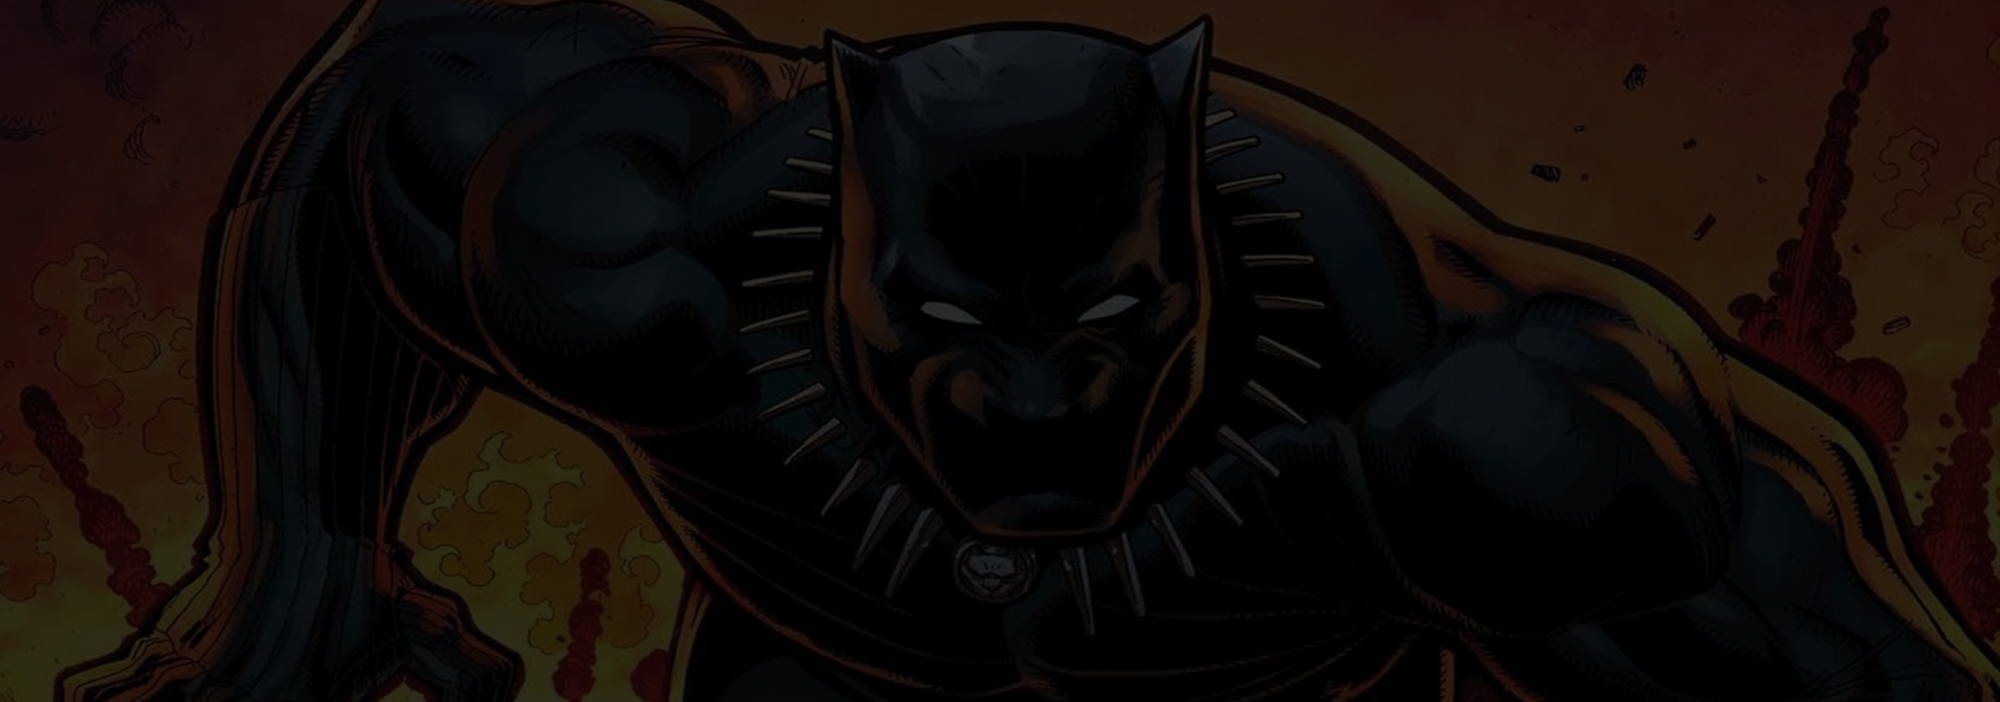
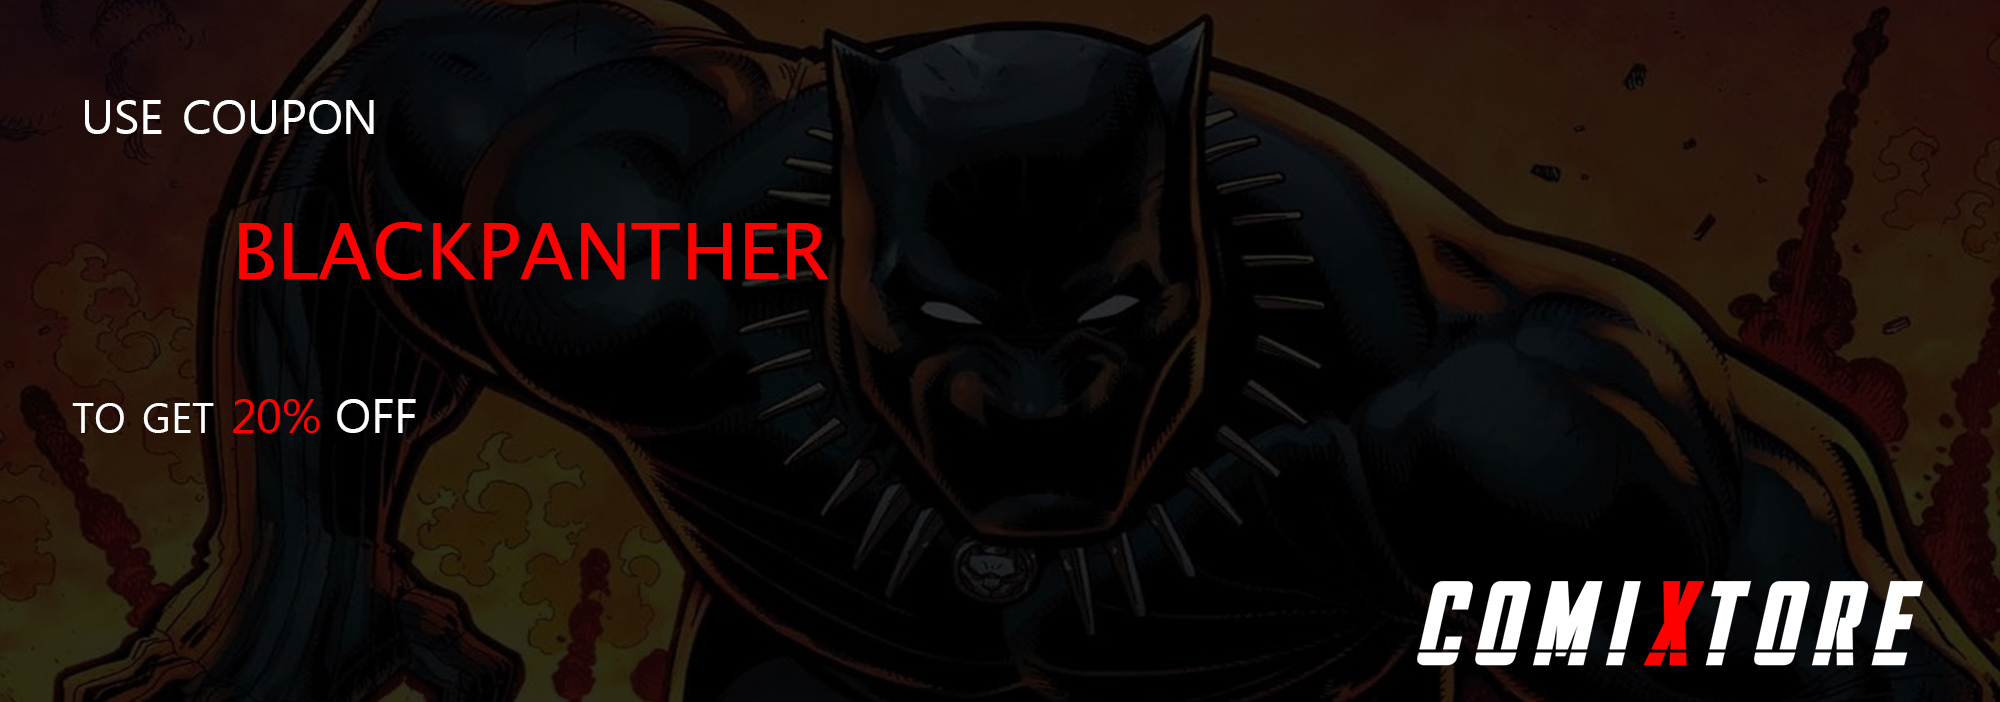
add coupons

diff --git a/src/views/Details/index.js b/src/views/Details/index.js
@@ -1,6 +1,6 @@
 import React, { useState, useEffect } from "react";
 import { useLocation } from "react-router-dom";
-import { useHistory } from 'react-router-dom';
+import { useHistory } from "react-router-dom";
 import Navbar from "../../components/Navbar";
 import Header from "../../components/Header";
 import {
@@ -35,7 +35,7 @@ function Details() {
 
   useEffect(() => {
     getComic();
-    if(history.location.state.price){
+    if (history.location.state.price) {
       setPrice(history.location.state.price);
     }
   }, []);
@@ -55,7 +55,7 @@ function Details() {
         ])
       );
     } else {
-      setProductQuantity(productQuantity => productQuantity + 1)
+      setProductQuantity((productQuantity) => productQuantity + 1);
       sessionStorage.setItem(
         "products",
         JSON.stringify([...products, { id, title, quantity: 1, price }])
@@ -72,17 +72,25 @@ function Details() {
 
   return (
     <main role="main">
-      <Header productQuantity={productQuantity}/>
+      <Header productQuantity={productQuantity} />
       <Navbar />
       <div class="jumbotron">
         <div class="container">
           <h1 class="display-3">{comicItem.title}</h1>
-          <p>{comicItem.description}</p>
+          {!comicItem.description ? (
+            <p>Produto sem Descrição</p>
+          ) : (
+            <p>{comicItem.description}</p>
+          )}
           <p>
-            <button onClick={() => addProduct()} className="btn btn-success btn-lg">
+            <button
+              onClick={() => addProduct()}
+              className="btn btn-success btn-lg"
+            >
               Buy &raquo;
             </button>
           </p>
+          <span></span>
           <Card className="product-container">
             <CardImg
               top
@@ -95,53 +103,6 @@ function Details() {
               alt="Imagem produto"
             />
           </Card>
-        </div>
-      </div>
-
-      <div class="container">
-        <div class="row">
-          <div class="col-md-4">
-            <h2>Heading</h2>
-            <p>
-              Donec id elit non mi porta gravida at eget metus. Fusce dapibus,
-              tellus ac cursus commodo, tortor mauris condimentum nibh, ut
-              fermentum massa justo sit amet risus. Etiam porta sem malesuada
-              magna mollis euismod. Donec sed odio dui.{" "}
-            </p>
-            <p>
-              <a class="btn btn-secondary" href="#" role="button">
-                View details &raquo;
-              </a>
-            </p>
-          </div>
-          <div class="col-md-4">
-            <h2>Heading</h2>
-            <p>
-              Donec id elit non mi porta gravida at eget metus. Fusce dapibus,
-              tellus ac cursus commodo, tortor mauris condimentum nibh, ut
-              fermentum massa justo sit amet risus. Etiam porta sem malesuada
-              magna mollis euismod. Donec sed odio dui.{" "}
-            </p>
-            <p>
-              <a class="btn btn-secondary" href="#" role="button">
-                View details &raquo;
-              </a>
-            </p>
-          </div>
-          <div class="col-md-4">
-            <h2>Heading</h2>
-            <p>
-              Donec sed odio dui. Cras justo odio, dapibus ac facilisis in,
-              egestas eget quam. Vestibulum id ligula porta felis euismod
-              semper. Fusce dapibus, tellus ac cursus commodo, tortor mauris
-              condimentum nibh, ut fermentum massa justo sit amet risus.
-            </p>
-            <p>
-              <a class="btn btn-secondary" href="#" role="button">
-                View details &raquo;
-              </a>
-            </p>
-          </div>
         </div>
       </div>
       <AuthFooter />

diff --git a/src/views/Checkout/index.jsx b/src/views/Checkout/index.jsx
@@ -2,7 +2,8 @@ import React, { useState, useEffect } from "react";
 import Navbar from "../../components/Navbar";
 import Header from "../../components/Header";
 import AuthFooter from "../../components/Footers/AuthFooter.jsx";
-import formatmoney from '../../common/formatmoney';
+import formatmoney from "../../common/formatmoney";
+import coupons from "../../coupon";
 
 import "./styles.scss";
 
@@ -10,6 +11,26 @@ function Checkout() {
   var products = JSON.parse(sessionStorage.getItem("products"));
   if (!products) products = [];
   const [productQuantity, setProductQuantity] = useState(products.length);
+  const [coupon, setCoupon] = useState("");
+  const [total, setTotal] = useState(showTotal());
+
+  function changeCoupon() {
+    var selectedCoupon = coupons.find((item) => item.key === coupon);
+    if (selectedCoupon) {
+      setTotal(showTotal()*(1 - selectedCoupon.value));
+    } else{
+      setTotal(showTotal())  
+    }
+  }
+
+  function showTotal() {
+    var products = JSON.parse(sessionStorage.getItem("products"));
+    if (!products) products = [];
+
+    return products
+      .map((product) => product.price * product.quantity)
+      .reduce((num, total) => num + total);
+  }
 
   return (
     <div>
@@ -38,24 +59,26 @@ function Checkout() {
 
               <li class="list-group-item d-flex justify-content-between">
                 <span>Total (USD)</span>
-                <strong>$20</strong>
+                <strong>{formatmoney(total)}</strong>
               </li>
             </ul>
 
-            <form class="card p-2">
+            <div class="card p-2">
               <div class="input-group">
                 <input
+                  value={coupon}
+                  onChange={(e) => setCoupon(e.target.value)}
                   type="text"
                   class="form-control"
                   placeholder="Promo code"
                 />
                 <div class="input-group-append">
-                  <button type="submit" class="btn btn-secondary">
+                  <button onClick={() => changeCoupon()} class="btn btn-secondary">
                     Redeem
                   </button>
                 </div>
               </div>
-            </form>
+            </div>
           </div>
 
           <div class="col-md-8 order-md-1">

diff --git a/src/components/Product/styles.scss b/src/components/Product/styles.scss
@@ -1,30 +1,42 @@
 .product-container {
-    @media screen and( min-width: 768px){
-        width: 280px;
-        margin: 5px 15px;
+  @media screen and( min-width: 768px) {
+    width: 280px;
+    margin: 5px 15px;
+  }
+  width: 40%;
+  margin: 5px;
+  font-size: 14px;
+  border-radius: 10px;
+  box-shadow: 1px 1px 3px 1px rgb(255, 2, 2);
+  img {
+    max-width: 220px;
+    margin: auto;
+    margin-top: 10px;
+  }
+  .btn {
+    background-color: rgb(67, 199, 78);
+    display: flex;
+    padding-inline: 25px;
+    margin-left: auto;
+    align-items: center;    
+    margin-right: auto;
+    margin-bottom: 10px;
+  }
+  .product-body {
+    padding: 0.1rem;
+    .old-price {
+      text-decoration: line-through;
+      font-size: 12px;
+      display: flex;
+      justify-content: center;
     }
-    width: 40%;
-    margin: 5px;
-    font-size: 14px;
-    border-radius:10px;
-    box-shadow: 1px 1px 3px 1px rgb(95, 30, 168);
-    img {
-        max-width: 220px;
-        margin: auto;
-        margin-top: 10px;
+    .price {
+      font-size: 17px;
+      color: black;
+      display: flex;
+      display: flex;
+      justify-content: center;
+      padding-bottom: 0.1rem;
     }
-    .btn{
-        background-color: rgb(67, 146, 199);
-    }
-    .product-body{
-        padding: 0.5rem;
-        .old-price{
-            text-decoration: line-through;
-            font-size: 13px;
-        }
-        .preco{
-            font-size: 17px;
-            color: black
-        }
-    }
+  }
 }

diff --git a/src/components/Navbar/index.jsx b/src/components/Navbar/index.jsx
@@ -43,23 +43,23 @@ const Example = (props) => {
         <Collapse isOpen={isOpen} navbar>
           <Nav className="mr-auto" navbar>
             <NavItem>
-              <NavLink className="color-text" href="/components/">
+              <NavLink className="color-text" href="/">
                 COMICS
               </NavLink>
             </NavItem>
             <NavItem>
-              <NavLink className="color-text" href="/components/">
-                LENDARY
+              <NavLink className="color-text" href="/">
+                RARES
               </NavLink>
             </NavItem>
             <NavItem>
-              <NavLink className="color-text" href="/components/">
+              <NavLink className="color-text" href="/">
                 COLECTIONS
               </NavLink>
             </NavItem>
             <NavItem>
-              <NavLink className="color-text" href="/components/">
-                BY HERO
+              <NavLink className="color-text" href="/">
+                DIGITAL COMICS
               </NavLink>
             </NavItem>
             <UncontrolledDropdown nav inNavbar>

diff --git a/src/components/Footers/AuthFooter.jsx b/src/components/Footers/AuthFooter.jsx
@@ -13,7 +13,7 @@ class Login extends React.Component {
             <Row className="align-items-center justify-content-xl-between">
               <Col xl="6">
                 <div className="copyright text-center text-xl-left text-muted">
-                  © 2020{" "}
+                  © 2021{" "}
                   <a
                     className="font-weight-bold ml-1"
                     target="_blank"
@@ -47,12 +47,6 @@ class Login extends React.Component {
                     <NavLink>
                       <i class="icon fab fa-facebook-f"></i>
                       Facebook
-                    </NavLink>
-                  </NavItem>
-                  <NavItem>
-                    <NavLink>
-                    <i class="icon fas fa-exchange-alt"></i>
-                     Exchanges and returns
                     </NavLink>
                   </NavItem>
                 </Nav>

diff --git a/src/components/Product/index.jsx b/src/components/Product/index.jsx
@@ -20,10 +20,9 @@ export default function Product({ comic }) {
             <CardBody className='product-body'>
                 <CardTitle className='text-center'>{title}</CardTitle>
                 <span className='old-price'>{formatmoney(oldprice)}</span>
+                <strong className='price'>{formatmoney(price)}</strong>
                 <br></br>
-                <strong className='preco'>{formatmoney(price)}</strong>
-                <br></br>
-                <button className="btn btn-primary btn-lg" onClick={() => history.push(`/comic?id=${id}`, {price})}>Buy it</button>
+                <button className="btn btn-success btn-lg" onClick={() => history.push(`/comic?id=${id}`, {price})}>Buy it</button>
             </CardBody>
         </Card>
     )

diff --git a/src/components/Header/index.jsx b/src/components/Header/index.jsx
@@ -38,7 +38,7 @@ function AdminNavbar({ productQuantity }){
               <span className="navbar-toggler-icon" />
             </button>
             <NavbarBrand to="/" tag={Link}>
-              <img style={{ height: '60px'}} alt="..." src={require("../../assets/img/brand/logo_comixtore_white.png")}/>
+              <img style={{ height: '90px'}} alt="..." src={require("../../assets/img/brand/logo_comixtore_white.png")}/>
             </NavbarBrand>
             <div className="d-md-none">
               <i className='ni ni-cart cart-icon' />

diff --git a/src/components/Spotlight/index.jsx b/src/components/Spotlight/index.jsx
@@ -13,7 +13,7 @@ export default function Spotlight({comics}) {
     return (
         <div className='spotlight-container'>
             <div className="align-spotlight mt-md-3">
-            <h4 className='text-center destaques'>Destaques</h4>
+            <h4 className='text-center destaques'>Spotlight</h4>
             </div>
             <div className="spotlight-row">
             {comics && comics.length > 0 && comics.map(comic => (

diff --git a/src/views/Home/index.jsx b/src/views/Home/index.jsx
@@ -113,9 +113,6 @@ export default function Home() {
         </div>
         <ForcaDeVendas />
         <Spotlight comics={comics}/>
-        <div>
-          <Bestseller />
-        </div>  
       </div>
       <AuthFooter />
     </>

diff --git a/src/coupon.js b/src/coupon.js
@@ -1,0 +1,10 @@
+export default [
+    {
+        key: 'BLACKPANTHER' ,
+        value: 0.2,
+    },
+    {
+        key: 'BLACKWIDOW' ,
+        value: 0.1,
+    }
+]

diff --git a/src/views/Home/styles.scss b/src/views/Home/styles.scss
@@ -3,5 +3,6 @@
     font-size: 24px;
     background-color: #202020;
     padding: 20px;
+    font-family: 'Bebas Neue', cursive;
     color: #fff;
 }

diff --git a/src/components/Footers/styles.scss b/src/components/Footers/styles.scss
@@ -3,7 +3,6 @@
 .footer-style{
     background-color: #202020;
     color: white;
-    margin-top:50px;
 }
 .logo{
     width: 25px;
